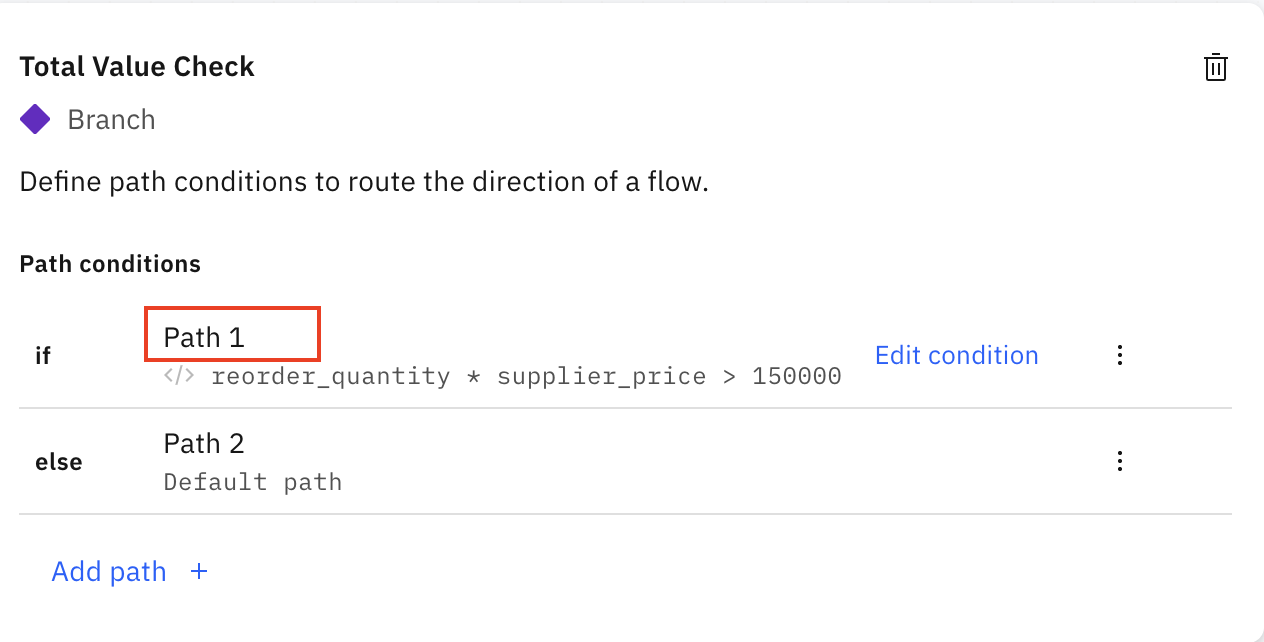
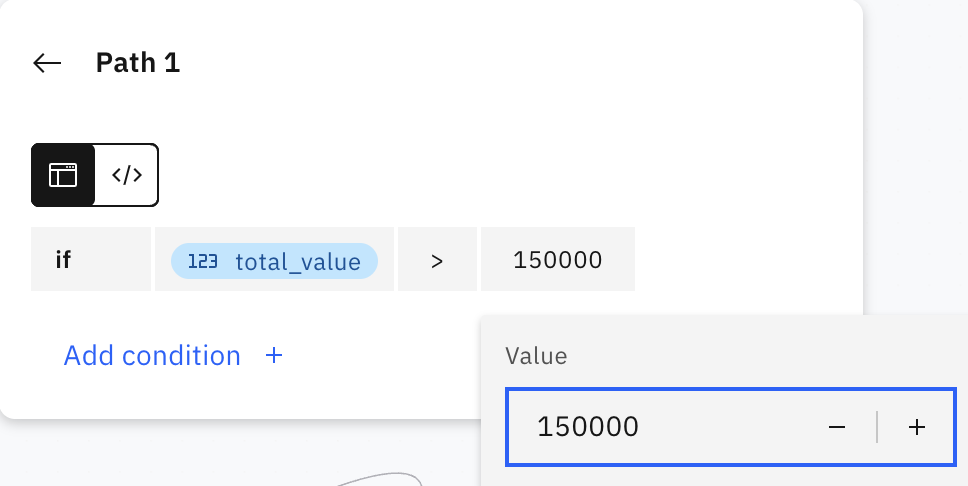
updates to lab 3

diff --git a/website/Lab-3.md b/website/Lab-3.md
@@ -83,7 +83,37 @@ Step-by-step instructions
 
     <img src="./imgs/imgs_3/lab3_createflow6.png" alt="image" width="700" />
 
-1. We will start creating the flow by inserting a branch to check the total reorder value. We will need to multiply both the inputs.<br>From the tools menu, drag out a **Branch** tool on to the flow. Ensure that the tool snaps on the flow.
+1. Next, we will also need to create a variable to keep track of the total reorder value. Click on the green triangle to get the following pop out. Click on the pencil icon next.
+    <img src="./imgs/imgs_3/lab3_createvar.png" alt="image" width="500" />
+
+1. Then click on **Add** and **Decimal**
+    <img src="./imgs/imgs_3/lab3_createvar1.png" alt="image" width="500" />
+
+1. Input the following
+
+    Name: total_value
+    Description: Total reorder value
+
+    Click **Add**
+    <img src="./imgs/imgs_3/lab3_createvar1.png" alt="image" width="500" />
+    
+1. We will start creating the flow by inserting a branch to check the total reorder value. We will need to multiply both the inputs.<br>From the tools menu, drag out a **Code Block**. Ensure that the tool snaps on the flow.
+
+    <img src="./imgs/imgs_3/lab3_createcode.png" alt="image" width="500" />
+
+1. Click on the code block tile  and click on Open code editor. 
+
+    <img src="./imgs/imgs_3/lab3_createcode1.png" alt="image" width="500" />
+
+1. In the empty space, start typing `flow` and there will be suggestions appearing. Select `flow.private.total_value`.
+
+    <img src="./imgs/imgs_3/lab3_createcode2.png" alt="image" width="500" />
+
+1. Continue to type out the expression until you get the following.
+
+    <img src="./imgs/imgs_3/lab3_createcode3.png" alt="image" width="500" />
+
+1. Now let's have different action for different situation. Drag out a **Branch** tool on to the flow. 
 
     <img src="./imgs/imgs_3/lab3_createflow7.png" alt="image" width="500" />
 
@@ -103,25 +133,25 @@ Step-by-step instructions
 
     <img src="./imgs/imgs_3/lab3_createflow11.png" alt="image" width="500" />
 
-    Swith to **Expression Editor**
 
     <img src="./imgs/imgs_3/lab3_createflow12.png" alt="image" width="500" />
 
-1. In the empty space, start typing `flow` and there will be suggestions appearing. Select `flow.input.reorder_quantity`
+1. Click on the **+** beside the if and switch to **Flow variable** and select **total_value**
 
     <img src="./imgs/imgs_3/lab3_createflow13.png" alt="image" width="500" />
     
-    Continue writing the expression until you get the following
 
     <img src="./imgs/imgs_3/lab3_createflow14.png" alt="image" width="500" />
 
-    Once you're done click the Back arrow.
+    Select the **>** sign from the drop down and change the value to 150000.
 
     <img src="./imgs/imgs_3/lab3_createflow15.png" alt="image" width="500" />
 
+    <img src="./imgs/imgs_3/lab3_createflow16.png" alt="image" width="500" />
+
 1. You can also try to rename the path by clicking on Path 1 and Path 2
 
-    <img src="./imgs/imgs_3/lab3_createflow16.png" alt="image" height="200" /> <img src="./imgs/imgs_3/lab3_createflow17.png" alt="image" height="200" />
+     <img src="./imgs/imgs_3/lab3_createflow17.png" alt="image" height="200" />
 
     <img src="./imgs/imgs_3/lab3_createflow18.png" alt="image" height="200" />
 
